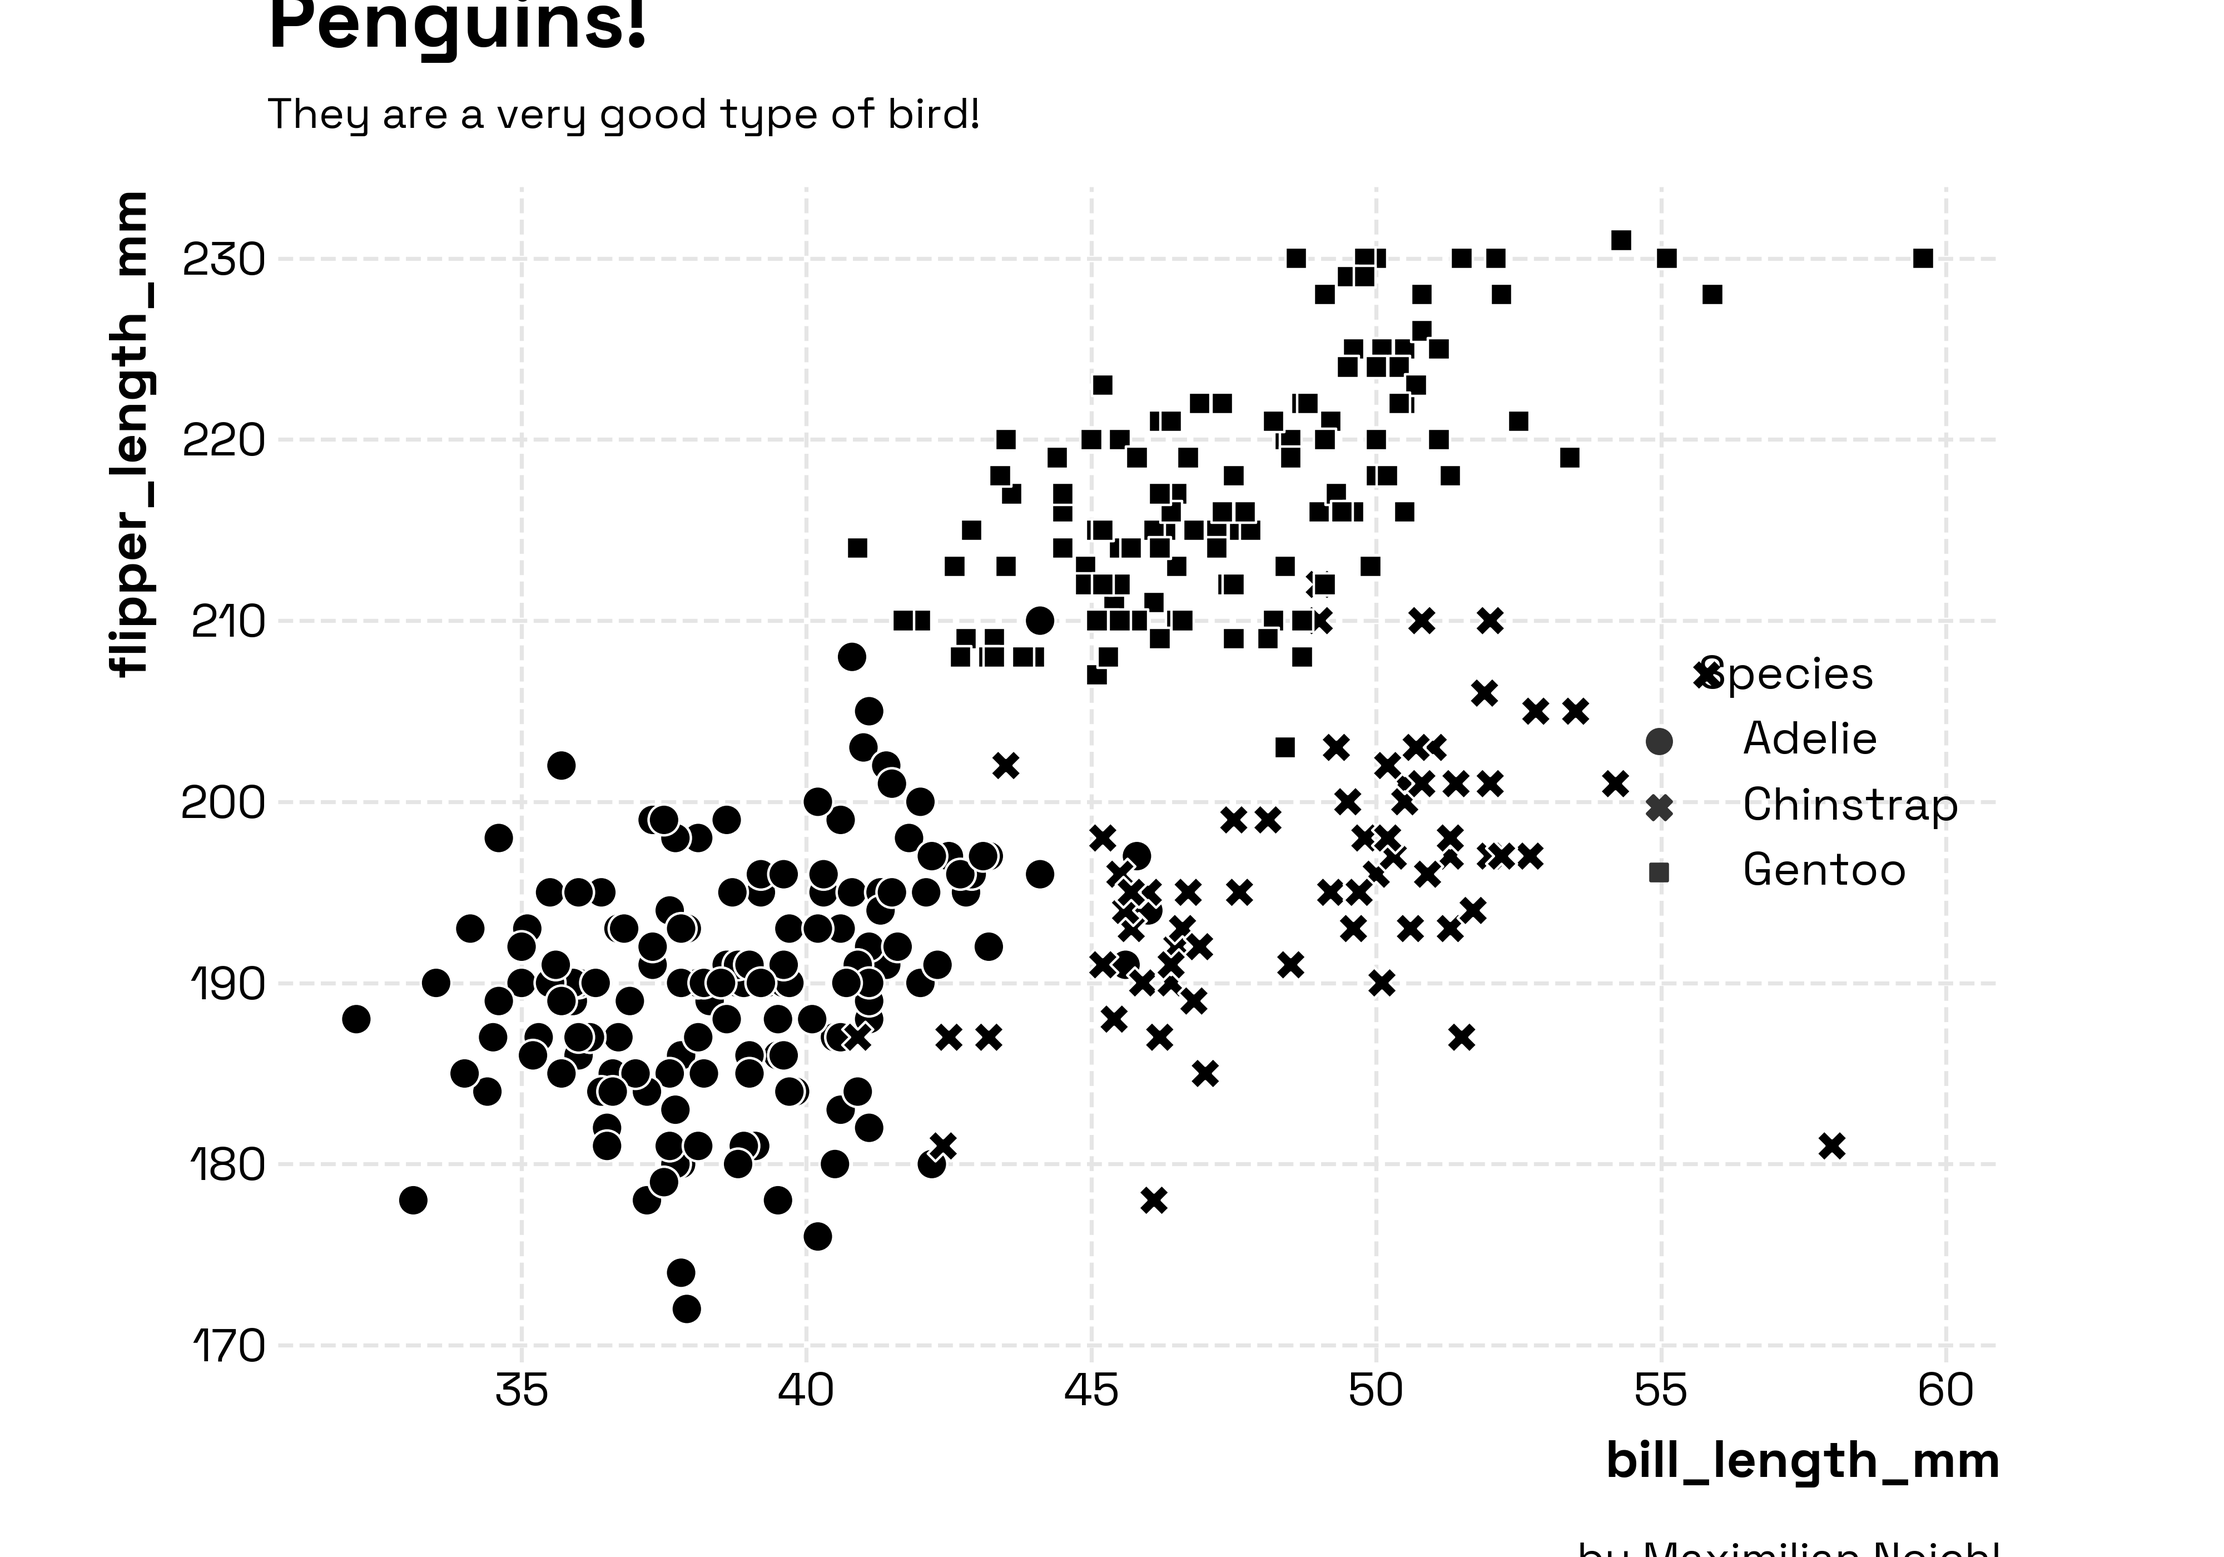
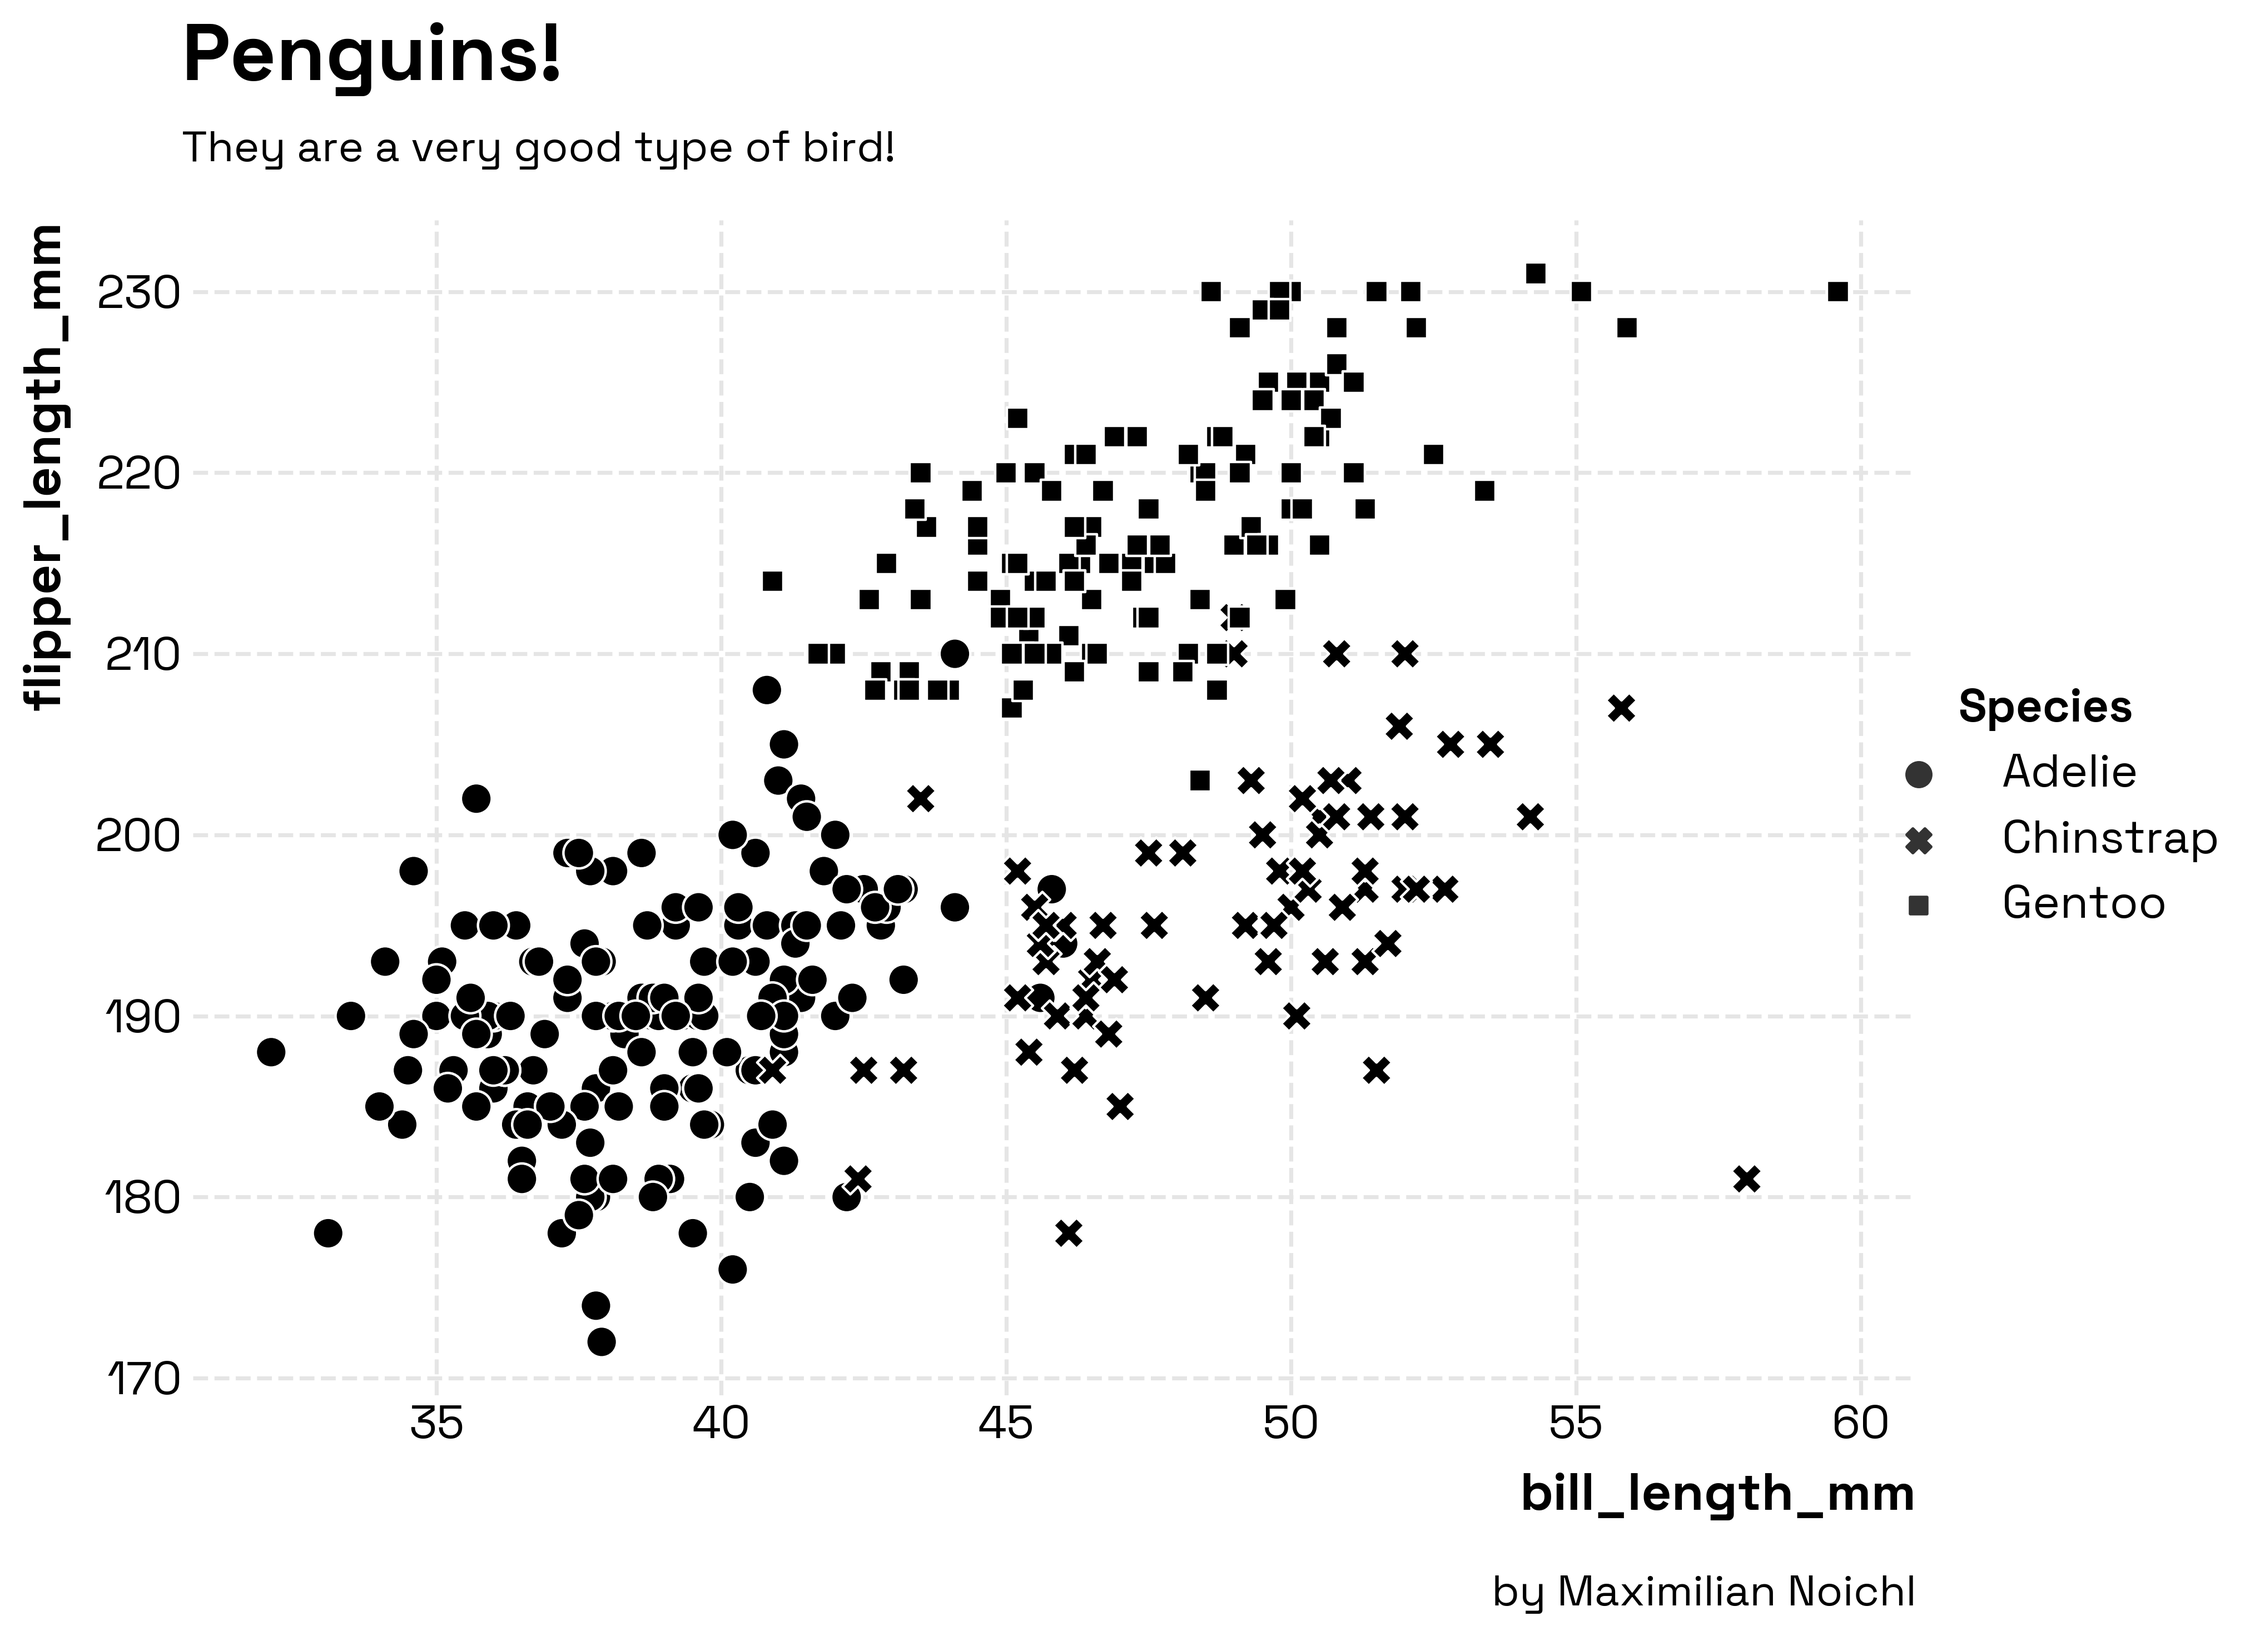
Further updates to the README.md file. Added a new image to show the Fira Sans Condensed font. Also added a new image to show the Jost font. Updated the images for the Lobster, RC, and SG fonts.

diff --git a/opinionated/core.py b/opinionated/core.py
@@ -75,17 +75,34 @@ def update_matplotlib_fonts():
 
     # Plotting functions:
 
-# def add_legend(ax: Optional[plt.Axes] = None, title: str = 'Title goes here!') -> None:
-#     ax.legend(bbox_to_anchor=(1.2, .5),
-#                 borderaxespad=0.0,
-#                 title="$\\bf{" + title + "}$",
-#                 fancybox=True) 
-
-def add_attribution(attrib: str = 'Attribution goes here'):
+def add_legend(*args, **kwargs):
     fig = plt.gcf()
-    plt.figtext( .9, -0.01, attrib, ha="right", fontsize=14)#, bbox={"facecolor":"orange", "alpha":0.5, "pad":5})
+    
+    if not "bbox_to_anchor" in kwargs:
+        kwargs["bbox_to_anchor"] = (1.2, .5)
+    legend = plt.legend(*args, **kwargs)
+    legend.get_title().set_fontweight('bold')
+    # return legend
 
-def set_title_and_suptitle(title_string,sub_title_string):
+    # ax.legend(bbox_to_anchor=(1.2, .5),
+    #             borderaxespad=0.0,
+    #             title="$\\bf{" + title + "}$",
+    #             fancybox=True) 
+
+def add_attribution(attrib = 'Attribution goes here', position = [.9, -0.01]):
     fig = plt.gcf()
-    plt.figtext( .12, .97, title_string, fontsize=26, fontweight='bold', ha='left')
-    plt.figtext( .12, .918, sub_title_string,  fontsize=14, fontweight='regular', ha='left')
+    plt.figtext(position[0],position[1], attrib, ha="right", fontsize=14)#, bbox={"facecolor":"orange", "alpha":0.5, "pad":5})
+
+def set_title_and_suptitle(title_string,sub_title_string,adjust_y=1.):
+    """
+    Set the title and subtitle of a plot. The subtitle is set a bit lower than the title. 
+    The adjust_y parameter can be used to adjust the vertical position of the two titles.
+    Args:
+        title_string (str): The title string
+        sub_title_string (str): The subtitle string
+        adjust_y (float, optional): The vertical position of the two titles. Defaults to 1.
+
+    """
+    fig = plt.gcf()
+    plt.figtext( .12, .97 * adjust_y, title_string, fontsize=26, fontweight='bold', ha='left')
+    plt.figtext( .12, .918 * adjust_y, sub_title_string,  fontsize=14, fontweight='regular', ha='left')

diff --git a/opinionated/__init__.py b/opinionated/__init__.py
@@ -12,6 +12,7 @@ from .core import (
     update_matplotlib_fonts,
     add_attribution,
     set_title_and_suptitle,
+    add_legend
 )
 
 
@@ -68,17 +69,19 @@ update_matplotlib_fonts()
 # import matplotlib.pyplot as plt
 # def legend_wrapper(*args, **kwargs):
 #     # Extract title from kwargs, if provided
-#     print(kwargs)
-#     title = kwargs.pop("title", None)
+#     # print(kwargs)
+#     # title = kwargs.pop("title", None)
 
 #     # If title exists, make it bold
-#     if title:
-#         title = "$\\bf{" + title + "}$"
-#         kwargs["title"] = title
+#     # if title:
+#     #     title = "$\\bf{" + title + "}$"
+#     #     kwargs["title"] = title
 #     kwargs["bbox_to_anchor"] = (1.2, .5)
+#     legend = original_legend_func(*args, **kwargs)
+#     legend.get_title().set_fontweight('bold')
 
 #     # Call the original legend function with the modified title and kwargs
-#     return original_legend_func(*args, **kwargs)
+#     return legend#original_legend_func(*args, **kwargs)
 
 # # Save the original legend function for internal use
 # original_legend_func = matplotlib.axes.Axes.legend

diff --git a/README.md b/README.md
@@ -3,7 +3,7 @@
 `opinionated` provides simple, clean stylesheets for plotting with `matplotlib`. 
 It's modelled and named after hrbrthemes in R, by hrbrmstr, which are "Opinionated, typographic-centric ggplot2 themes", although I have made some different choices. 
 
-The main application I had in mind was to increase the quality of plots in colab-environments, where there is a very small range of preinstalled fonts. The package therefore automatically downloads fonts from GoogleFonts. But I think everything should also work on your local machine. Be aware though, that it does monkeypatch the defaults of the legend-function, which might lead to unexpected results.
+The main application I had in mind was to increase the quality of plots in colab-environments, where there is a very small range of preinstalled fonts. The package therefore automatically downloads fonts from GoogleFonts. But I think everything should also work on your local machine. Be aware though, that it's not super well tested, and might e. g. fail with facets.
 
 
 
@@ -43,15 +43,15 @@ The style `opinions_rc` makes use of the font `Roboto Condensed`, which is my fa
 `opinions_sg` which uses Florian Karsten's lovely space `Space Grotesk` font, 
 
 
-`opinions_fsc` which uses ... lovely space `Fira Sans Grotesk` font, 
+`opinions_fsc` which uses  `Fira Sans Grotesk` font, 
 
 
-`opinions_m` which uses ... lovely space `Montserrat` font, 
+`opinions_m` which uses `Montserrat` font, 
 
 
 and 
 
-``opinions_j` which uses ...  `Jost`, 
+``opinions_j` which   `Jost`, 
 
 
 
@@ -62,10 +62,22 @@ Importantly, you can download whatever font you want from google-fonts, so nothi
     download_googlefont('Lobster', add_to_cache=True)
     plt.rc('font', family='Lobster') 
 
+Which will result in something like the following:
+
+<img src="img/opinions_lobster_example.png" width="672" />
+
+If you want to get an overview over the installed fonts, you can run the following:
+
+    from opinionated.core import show_installed_fonts
+    show_installed_fonts()
+
+
 
 ## To-Do:
 
 - [ ] Add automatic installation of good colormaps from `cmocean` and `mcrameri`.
+- [ ] Make it play nice with facets!
+
 
 ## Inspiration 
 
